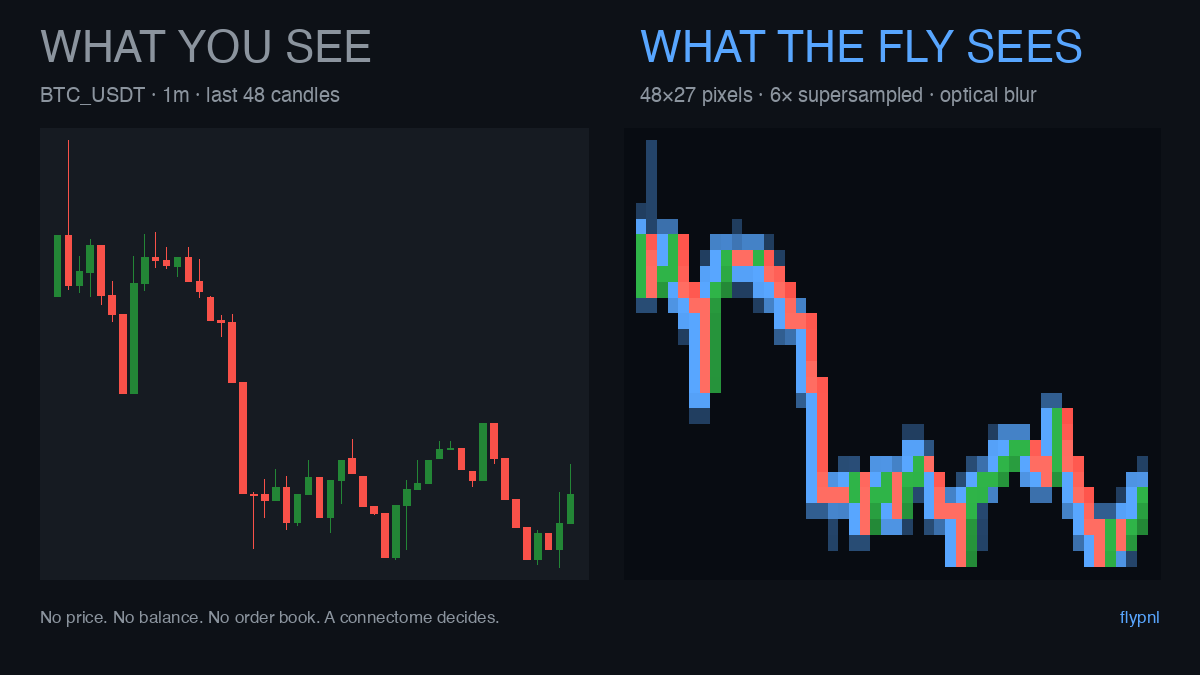
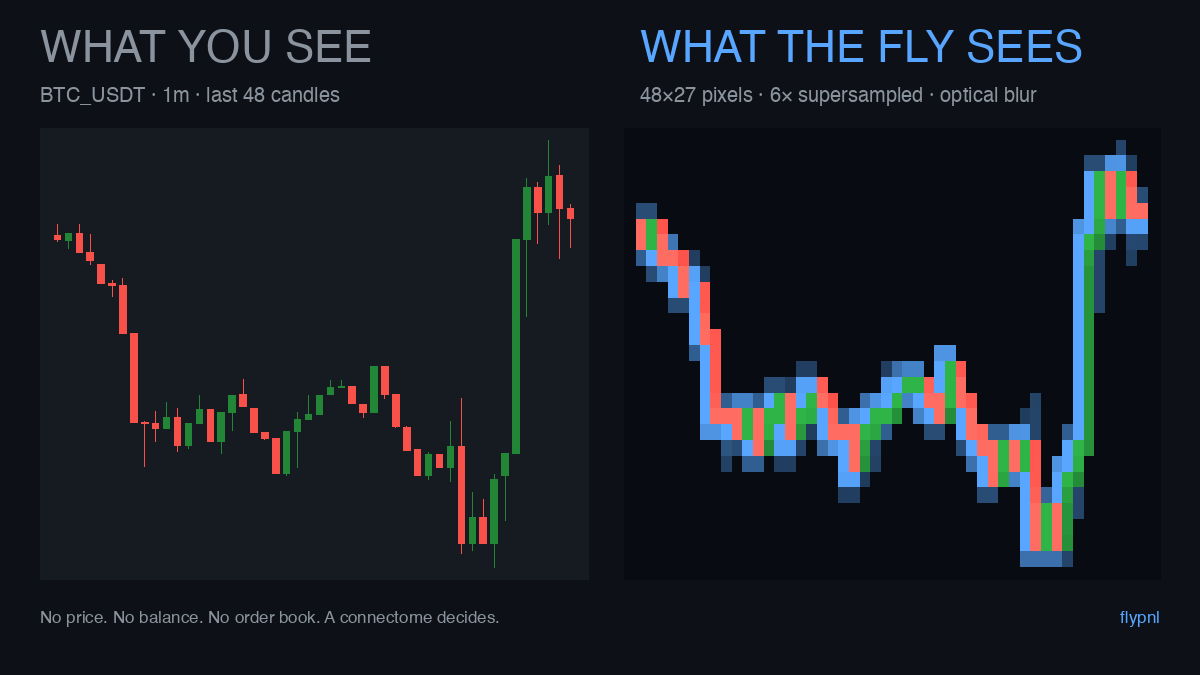
workflow: 'say the word' content protocol + day-1 demo post
content/WORKFLOW.md codifies the trigger words (生成推文/配图/看门/存档)
and the full production loop. posts/2026-10-20-day1-gate-open.md is the
first demo output: gate-open thread (EN+CN), chart attached.

diff --git a/posts/2026-10-20-day1-gate-open.md b/posts/2026-10-20-day1-gate-open.md
@@ -1,0 +1,61 @@
+# 2026-10-20 — Day 1: the gate just opened
+
+> 成品稿。「生成推文」演示产出。配图：charts/retina-compare.png（今日 21:41 版）
+> 发布后把互动数补在这里：EN likes/RT：___ ｜ 中文阅读：___
+
+---
+
+## 🧵 EN main thread
+
+**1/**
+Day 1 of flypnl.
+
+My fly brain has no directional edge — my own protocol proved that with
+control arms and DSR statistics. I published the failure anyway.
+
+But the funding-carry gate just opened on Gate: trailing 7 settlements
++23.9% annualized, spot rate +237%. Here's what discipline looks like. 🧵
+
+**2/**
+The gate rule is mechanical: enter only when trailing-7 ≥ 15% APR, exit when
+it drops below 5% or flips negative twice. No prediction. Just getting paid
+to be the liquidity the market is begging for.
+
+[配图：charts/retina-compare.png]
+
+**3/**
+The part most people skip: my last backtest of this exact strategy on this
+exact exchange costs 0.6% round trip. At current rates that's ~3 days of
+funding to break even. So the pilot is $40 spot + $60 margin of groceries
+money, with the exit lines published BEFORE entry, not after.
+
+**4/**
+What you'll see here weekly: the fly's paper equity (still no edge),
+the carry gate state (open/closed/retreated), and an A-share momentum
+signal currently saying "cash" while its market falls 20-38%.
+
+No calls. No shilling. Losses included. Not financial advice.
+
+---
+
+## 中文副本
+
+我用果蝇大脑炒币的第 1 天。先说结论：它没有方向性 edge，我自己的
+测量协议（对照组+DSR统计）证明的，失败数据我照发。
+
+但费率套利的门刚才开了：trailing 7 次结算年化 +23.9%，瞬时 +237%。
+门规是机械的：trailing≥15% 才进，<5% 或连翻 2 次负就走。不预测，
+只做收钱的那一方。
+
+这次试点是买菜钱的量级：40U 现货 + 60U 保证金，撤退线在进场前
+就公开。这个账户来回成本 0.6%，当前费率下约 3 天回本——数学不
+性感，但纪律性感。
+
+[配图：左边是你看的K线，右边是我的蝇看到的一切——48×27 像素]
+
+不构成投资建议。亏损照发。
+
+---
+
+## 标签建议
+#buildinpublic #algotrading #quant

diff --git a/content/WORKFLOW.md b/content/WORKFLOW.md
@@ -1,0 +1,32 @@
+# WORKFLOW — 「说一句，就生成」协议
+
+> 用户一句话触发，助手执行完整生产循环。此文件是对话协议的固化：
+> 任何会话读到它就能按同一标准出稿。
+
+## 触发词 → 动作
+
+| 用户说 | 助手做 |
+|---|---|
+| **"生成推文"** / "生成内容" / "今天发什么" | 完整循环（见下） |
+| **"生成配图"** | `tools/make_retina_chart.py` + 必要的自定义图 → charts/ |
+| **"门怎么样了"** / "看看门" | `python3 tools/gate_watch.py`，报告门/撤退线状态 |
+| **"存档"** | 刷新 data/ 导出 + git commit |
+
+## 完整循环（"生成推文"时执行）
+
+1. **刷数据**（全部只读）：
+   - `python3 tools/gate_watch.py`（费率门状态）
+   - `python3 tools/export_from_flygate.py`（A股动量/费率时序刷新）
+2. **挑今天的故事**：优先级 = 实时事件（门开/撤退/熔断）> 周数据帖 > 判决/事故存货
+   （素材库：`data/verdicts.md`、`engine/runs/reports/`、`posts/`）
+3. **出稿**：`posts/YYYY-MM-DD-*.md`，每篇含：
+   - EN 主帖（≤280 字符/条，thread 拆好）+ 中文副本（小红书/微信用）
+   - 写作规范：`content/templates.md` 的去 AI 味八条（有"我"、具体数字压倒形容词、结尾别升华）
+   - 配图指定：charts/ 里哪张
+4. **红线**：不喊单、亏损照发、无绝对余额（百分比出门）、每帖带 not financial advice
+5. 发布由用户手动完成；发完把互动数补进该篇 md
+
+## 语言与节奏
+
+- EN 主发（fintwit + neurotwitter），中文副本同步
+- 每周 2–3 篇起步；连续剧格式："flypnl day/week N: …"
